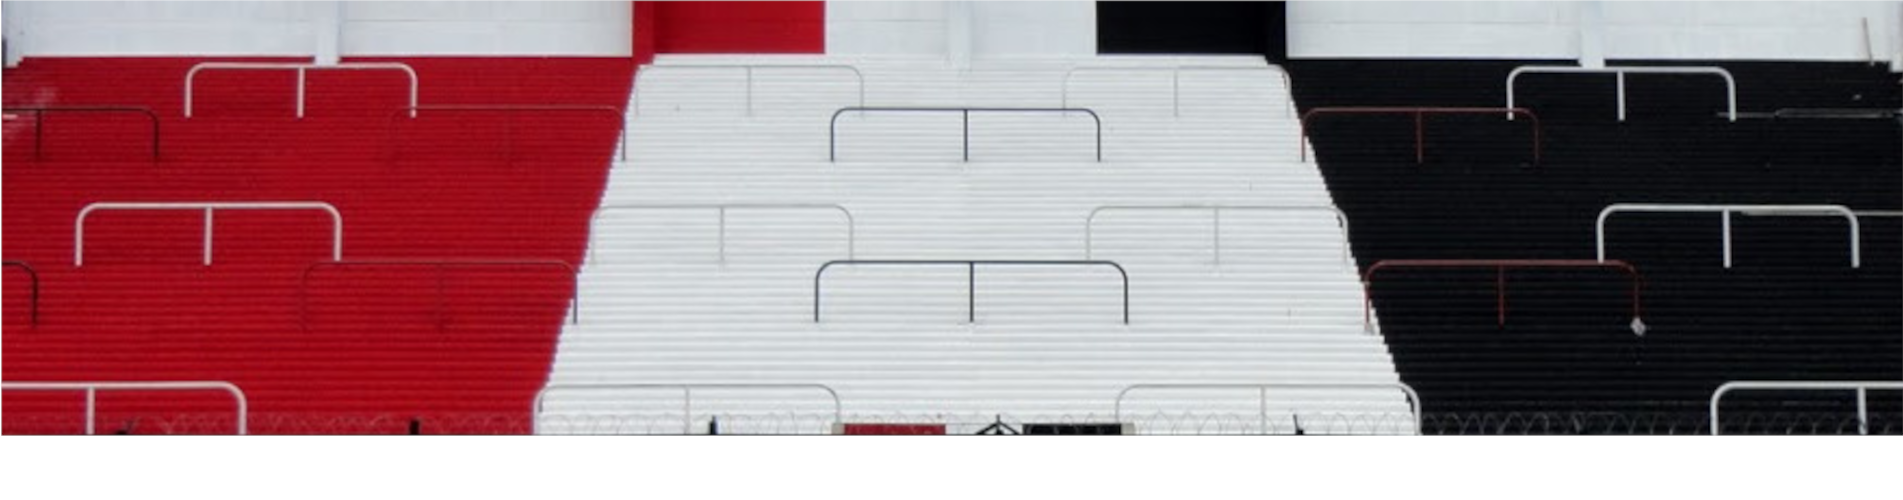
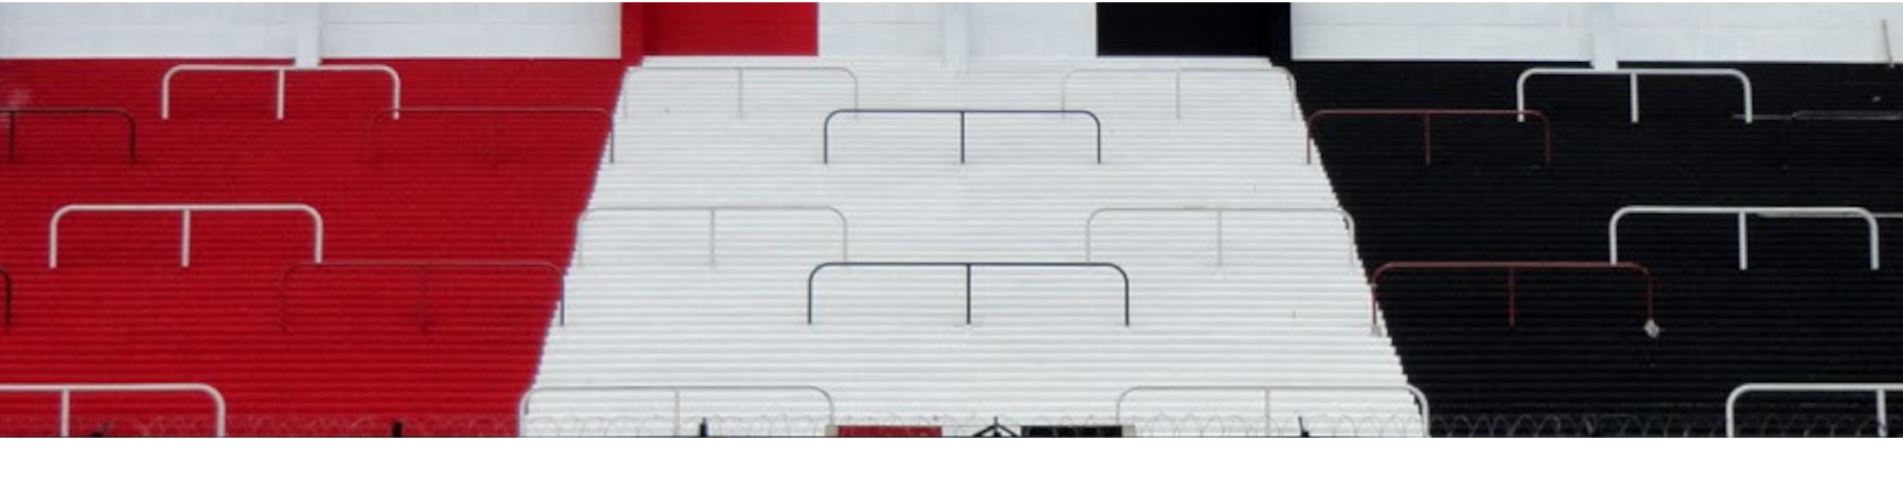
parallax terminado

diff --git a/tp-entregable-4/js/funcionSticky.js b/tp-entregable-4/js/funcionSticky.js
@@ -40,7 +40,7 @@ function teamAnimation(y) {
             sliderAnimation.classList.toggle("carruselMove");
             sliderAnimation.classList.toggle("positionSlider");
         }
-    }else if(y > 1500 && animationActive === false) {
+    }else if(y > 2000 && animationActive === false) {
         animationActive = true;
         sliderAnimation.classList.toggle("positionSlider");
         sliderAnimation.classList.toggle("carruselMove");
@@ -89,69 +89,69 @@ let activeCard4Move2 = false;
 
 function cardMoveFeatures(y) {
     //card 1
-    if(y > 2300 && activeCardMove === false) {
+    if(y > 3300 && activeCardMove === false) {
         document.querySelector(".card").classList.toggle("cardMove");
         activeCardMove = true;
-    }else if(y < 2300 && activeCardMove === true){
+    }else if(y < 3300 && activeCardMove === true){
         document.querySelector(".card").classList.toggle("cardMove");
         activeCardMove = false;
     }
 
-    if(y > 2600 && activeCardMove2 === false) {
+    if(y > 3450 && activeCardMove2 === false) {
         document.querySelector(".card").classList.toggle("cardMove2");
         activeCardMove2 = true;
-    }else if(y < 2600 && activeCardMove2 === true){
+    }else if(y < 3450 && activeCardMove2 === true){
         document.querySelector(".card").classList.toggle("cardMove2");
         activeCardMove2 = false;
     }
 
     //card 2
-    if(y > 2800 && activeCard2Move === false) {
+    if(y > 3800 && activeCard2Move === false) {
         document.querySelector(".card-2").classList.toggle("cardMove");
         activeCard2Move = true;
-    }else if(y < 2800 && activeCard2Move === true){
+    }else if(y < 3800 && activeCard2Move === true){
         document.querySelector(".card-2").classList.toggle("cardMove");
         activeCard2Move = false;
     }
 
-    if(y > 3200 && activeCard2Move2 === false) {
+    if(y > 4000 && activeCard2Move2 === false) {
         document.querySelector(".card-2").classList.toggle("cardMove2");
         activeCard2Move2 = true;
-    }else if(y < 3200 && activeCard2Move2 === true){
+    }else if(y < 4000 && activeCard2Move2 === true){
         document.querySelector(".card-2").classList.toggle("cardMove2");
         activeCard2Move2 = false;
     }
 
     //card 3
-    if(y > 3300 && activeCard3Move === false) {
+    if(y > 4200 && activeCard3Move === false) {
         document.querySelector(".card-3").classList.toggle("cardMove");
         activeCard3Move = true;
-    }else if(y < 3300 && activeCard3Move === true){
+    }else if(y < 4200 && activeCard3Move === true){
         document.querySelector(".card-3").classList.toggle("cardMove");
         activeCard3Move = false;
     }
 
-    if(y > 3700 && activeCard3Move2 === false) {
+    if(y > 4400 && activeCard3Move2 === false) {
         document.querySelector(".card-3").classList.toggle("cardMove2");
         activeCard3Move2 = true;
-    }else if(y < 3700 && activeCard3Move2 === true){
+    }else if(y < 4400 && activeCard3Move2 === true){
         document.querySelector(".card-3").classList.toggle("cardMove2");
         activeCard3Move2 = false;
     }
 
     //card 4
-    if(y > 3800 && activeCard4Move === false) {
+    if(y > 4800 && activeCard4Move === false) {
         document.querySelector(".card-4").classList.toggle("cardMove");
         activeCard4Move = true;
-    }else if(y < 3800 && activeCard4Move === true){
+    }else if(y < 4800 && activeCard4Move === true){
         document.querySelector(".card-4").classList.toggle("cardMove");
         activeCard4Move = false;
     }
 
-    if(y > 4200 && activeCard4Move2 === false) {
+    if(y > 5000 && activeCard4Move2 === false) {
         document.querySelector(".card-4").classList.toggle("cardMove2");
         activeCard4Move2 = true;
-    }else if(y < 4200 && activeCard4Move2 === true){
+    }else if(y < 5000 && activeCard4Move2 === true){
         document.querySelector(".card-4").classList.toggle("cardMove2");
         activeCard4Move2 = false;
     }
@@ -162,11 +162,11 @@ function cardMoveFeatures(y) {
 let activateHistory = false;
 
 function historyHero(y) {
-    if(y > 500 && activateHistory === false) {
+    if(y > 1100 && activateHistory === false) {
         img.classList.toggle("inGameImgMove");
         parrafoHero.classList.toggle("parrafoHeroOpacity");
         activateHistory = true;
-    }else if(y < 500 && activateHistory === true) {
+    }else if(y < 1100 && activateHistory === true) {
         img.classList.toggle("inGameImgMove");
         parrafoHero.classList.toggle("parrafoHeroOpacity");
         activateHistory = false;
@@ -178,11 +178,11 @@ function historyHero(y) {
 let activateDescripcion = false;
 
 function descripcionHero(y) {
-    if(y > 2300 && activateDescripcion === false) {
+    if(y > 2800 && activateDescripcion === false) {
         imgAyrton.classList.toggle("gameAyrtonMove");
         parrafoAyrton.classList.toggle("parrafoAyrtonOpacity");
         activateDescripcion = true;
-    }else if(y < 2300 && activateDescripcion === true) {
+    }else if(y < 2800 && activateDescripcion === true) {
         imgAyrton.classList.toggle("gameAyrtonMove");
         parrafoAyrton.classList.toggle("parrafoAyrtonOpacity");
         activateDescripcion = false;

diff --git a/tp-entregable-4/css/style.css b/tp-entregable-4/css/style.css
@@ -838,7 +838,6 @@ footer ul li{
 
 .inGameImg {
   border-radius: 25px;
-  width: 30%;
   border: rgb(180, 180, 180) solid 2px;
   box-shadow: -5px 10px rgba(180, 180, 180, 0.5);
   transition: all 0.50s ease-in-out;
@@ -1849,6 +1848,71 @@ h3{
   100% {opacity: 1;
     transform: translateX(0);
   }
+}
+
+@keyframes scroll{
+  0%{background-position-x: 0px;}
+  100%{background-position-x: -1264px;}
+}
+
+.parallax {
+  width: 100%;
+  height: 500px;
+  position: relative;
+}
+
+.layer{
+  position: absolute;
+  min-height: 500px;
+  height: 100%;
+  width: 100%;
+  top: 0;
+  left: 0;
+  background-repeat: repeat-x;
+  background-size: cover;
+  z-index: -1;
+}
+
+.layer1{
+  background-image: url("../assets/img/tribuna.png");
+  animation: scroll 100s infinite linear;
+}
+
+.layer2{
+  width: 100%;
+  height: 100%;
+  background-color: black;
+  opacity: 0.3;
+  animation: scroll 5s infinite linear;
+}
+
+.layer3{
+  background-image: url("../assets/img/pistaCarreras.png");
+  animation: scroll 20s infinite linear;
+}
+
+.layer4{
+  background-image: url("../assets/img/nubes.png");
+  animation: scroll 50s infinite linear;
+}
+
+.imgLayer{
+  position: absolute;
+  top: 0;
+  left: 50%;
+  transform: translateX(-50%);
+}
+
+.layer5{
+  position: absolute;
+  bottom: 0;
+  left: 50%;
+}
+
+.layer6{
+  position: absolute;
+  bottom: 25px;
+  left: 20%;
 }
 
 @media only screen and (max-width: 1370px) {

diff --git a/tp-entregable-4/hero.html b/tp-entregable-4/hero.html
@@ -61,6 +61,15 @@
         <h2 class="subTitleHero">Ayrton <span class="changeColorTitle">senna</span></h2>
       </h1>
     </div>
+    <div class="parallax">
+      <div class="layer layer1"></div>
+      <div class="layer layer2"></div>
+      <div class="layer layer3"></div>
+      <div class="layer layer4"></div>
+      <div class="imgLayer"><img src="assets/img/F1Logo.png" alt="Logo Formula 1"></div>
+      <div class="layer5"><img src="assets/img/carF1.png" alt="Ferrari"></div>
+      <div class="layer6"><img src="assets/img/carF12.png" alt="Blue team"></div>
+    </div>
     <div class="available">Disponible el 18/04/2023</div>
     <img class="imageHero" src="assets/img/Imagen hero.png" alt="Imagen logo del juego">
     <section class="sectionHero">

diff --git a/index.html b/index.html
@@ -8,8 +8,6 @@
   <link rel="stylesheet" href="style.css">
 </head>
 <body>
-  <div class="parallex">
-    <img class="img-1" src="tribuna.JPG" alt="">
-  </div>
+  
 </body>
 </html>
